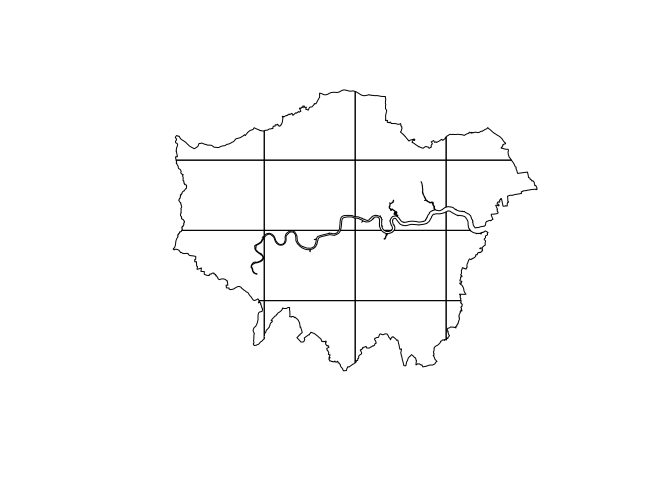
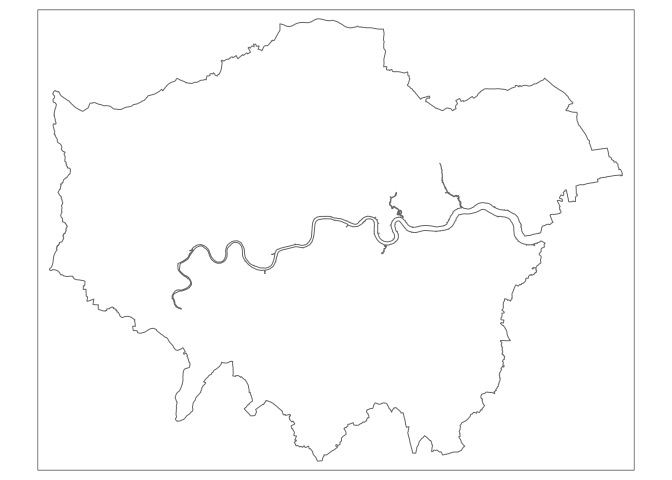
Update readme, ready to open

diff --git a/README.md b/README.md
@@ -7,75 +7,84 @@
 
 <!-- badges: end -->
 
-The goal of zonebuilder is to …
+The goal of zonebuilder is to break up large regions into manageable
+zones for research and applied transport planning, to support the global
+transition away from fossil fuels in the transport sector, and towards
+more healthy modes of transport like walking, cycling and renewable
+electricity-powered public
+transport.
 
 ## Installation
 
-You can install the released version of zonebuilder from
-[CRAN](https://CRAN.R-project.org) with:
+<!-- You can install the released version of zonebuilder from [CRAN](https://CRAN.R-project.org) with: -->
 
-``` r
-install.packages("zonebuilder")
-```
-
-And the development version from [GitHub](https://github.com/) with:
+Install it from [GitHub](https://github.com/) with:
 
 ``` r
 # install.packages("devtools")
 devtools::install_github("robinlovelace/zonebuilder")
 ```
 
-## Example
+## Using zonebuilder
+
+Zonebuilder works with `sf` objects and works well alongside the `sf`
+package and visualisation packages that support spatial data such as
+`ggplot2`, `leaflet`, `mapdeck`, `mapview` and `tmap`, the last of which
+we’ll use in the following maps. Attaching the package provides the
+example dataset `zb_region`, the geographic boundary of a large city
+(London, UK):
 
 ``` r
-library(sf)
-#> Linking to GEOS 3.8.0, GDAL 3.0.2, PROJ 6.2.1
-devtools::load_all()
-#> Loading zonebuilder
-plot(zb_region)
-```
-
-<img src="man/figures/README-unnamed-chunk-2-1.png" width="100%" />
-
-The aim is to be able to break up geographical space into discrete
-chunks. The syntax is designed to be user friendly, e.g.:
-
-``` r
-x = zb_region
-q = zb_quadrat(x, 4) # break into 4
-plot(q)
+library(zonebuilder)
+library(tmap)
+tmap_border = tm_shape(zb_region) + tm_borders()
+tmap_border
 ```
 
 <img src="man/figures/README-unnamed-chunk-3-1.png" width="100%" />
 
-Or doughnuts
+The core functions in the package break up geographical space into
+discrete chunks. The syntax is designed to be user friendly. The
+following command, for example, breaks London into quadrats of equal
+size (and keeping only the space inside the boundary):
 
 ``` r
-plot(zb_doughnut(x, n = 4))
+x = zb_region
+q = zb_quadrat(x, ncol = 4) # break into 4
+qtm(q) 
 ```
 
 <img src="man/figures/README-unnamed-chunk-4-1.png" width="100%" />
 
+Another zoning option is ‘doughnuts’:
+
 ``` r
-doughnut_4km = zb_doughnut(x, d = 4)
-doughnut_4km
-#> Simple feature collection with 8 features and 0 fields
-#> geometry type:  GEOMETRY
-#> dimension:      XY
-#> bbox:           xmin: 503458.6 ymin: 155907.5 xmax: 561840.6 ymax: 200985.4
-#> epsg (SRID):    27700
-#> proj4string:    +proj=tmerc +lat_0=49 +lon_0=-2 +k=0.9996012717 +x_0=400000 +y_0=-100000 +ellps=airy +units=m +no_defs
-#>   sf..st_intersection.x..doughnuts.
-#> 1  MULTIPOLYGON (((535049.7 18...
-#> 2  MULTIPOLYGON (((538984.3 18...
-#> 3  MULTIPOLYGON (((543099.1 17...
-#> 4  MULTIPOLYGON (((546930.3 18...
-#> 5  POLYGON ((528333.1 159903.3...
-#> 6  MULTIPOLYGON (((534895.7 15...
-#> 7  MULTIPOLYGON (((517141.3 16...
-#> 8  MULTIPOLYGON (((504453.2 18...
-plot(sf::st_geometry(doughnut_4km))
-plot(doughnut_4km[3, ], col = "blue", add = TRUE)
+tmap_arrange(
+  qtm(zb_doughnut(x, n_circles = 3)) + tmap_border,
+  qtm(zb_doughnut(x, distance = 3)) + tmap_border
+)
+#> Set distance to enable distance_growth
 ```
 
-<img src="man/figures/README-unnamed-chunk-4-2.png" width="100%" />
+<img src="man/figures/README-unnamed-chunk-5-1.png" width="100%" />
+
+A new zoning system implemented in the function `zb_zone()` segments
+doughnuts of gradually increasing width to create concentric segmented
+annuli (CSA):
+
+``` r
+qtm(zb_zone(x))
+```
+
+<img src="man/figures/README-unnamed-chunk-6-1.png" width="100%" />
+
+This function gives you control over a number of parameters, as
+documented in the help pages and an in-progress academic paper.
+
+``` r
+args(zb_zone)
+#> function (x = NULL, point = NULL, n_circles = NULL, n_segments = 12, 
+#>     distance = 1, distance_growth = 1, segment_center = FALSE, 
+#>     intersection = TRUE) 
+#> NULL
+```
